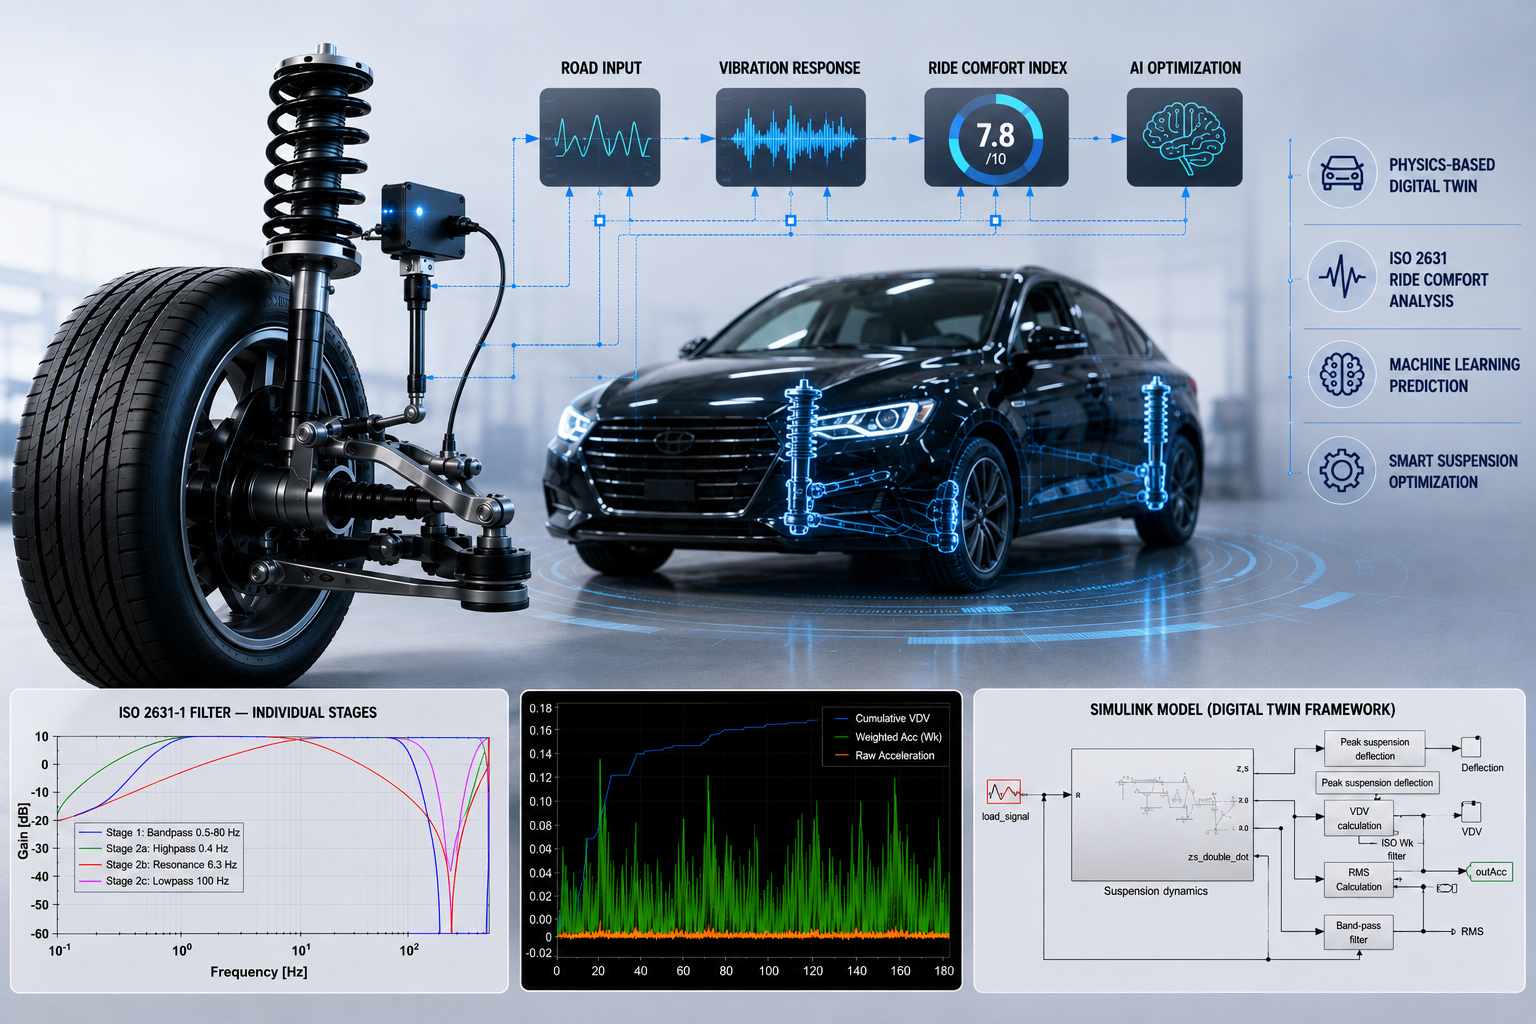
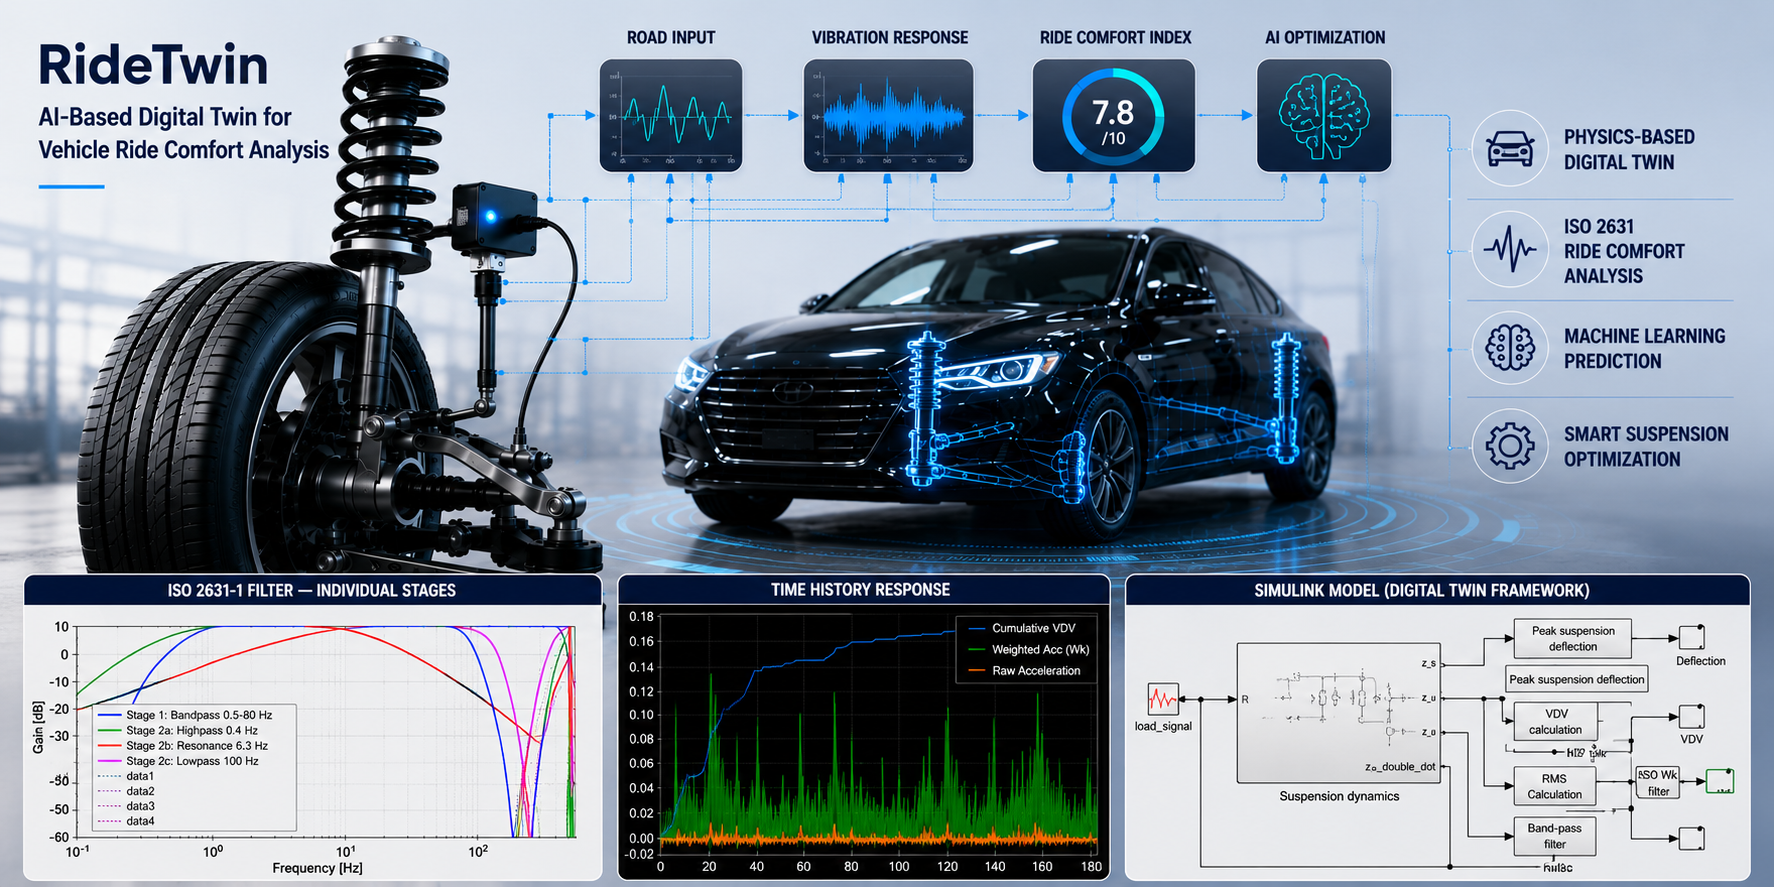
edited ridetwin photoo

diff --git a/src/components/About.jsx b/src/components/About.jsx
@@ -14,14 +14,8 @@ function About() {
           <div>
 
             <p className="text-gray-700 leading-8 text-lg">
-
-              I'm a final-year Mechanical Engineering graduate
-              specializing in Mechatronics at the University of
-              Peradeniya. I have a strong interest in intelligent
-              engineering systems and enjoy combining mechanical
-              engineering with programming, simulation,
-              automation, and data-driven approaches to solve
-              real-world engineering challenges.
+I'm a Mechanical Engineering graduate specializing in Mechatronics from the University of Peradeniya.
+ I have a strong interest in intelligent engineering systems and enjoy integrating mechanical engineering with programming, simulation, automation, artificial intelligence, and data-driven approaches to solve real-world engineering challenges.
 
               <br /><br />
 
@@ -61,7 +55,7 @@ function About() {
 
                 <br />
 
-                GPA : 3.60 / 4.00
+                GPA : 3.54 / 4.00
 
               </p>
 